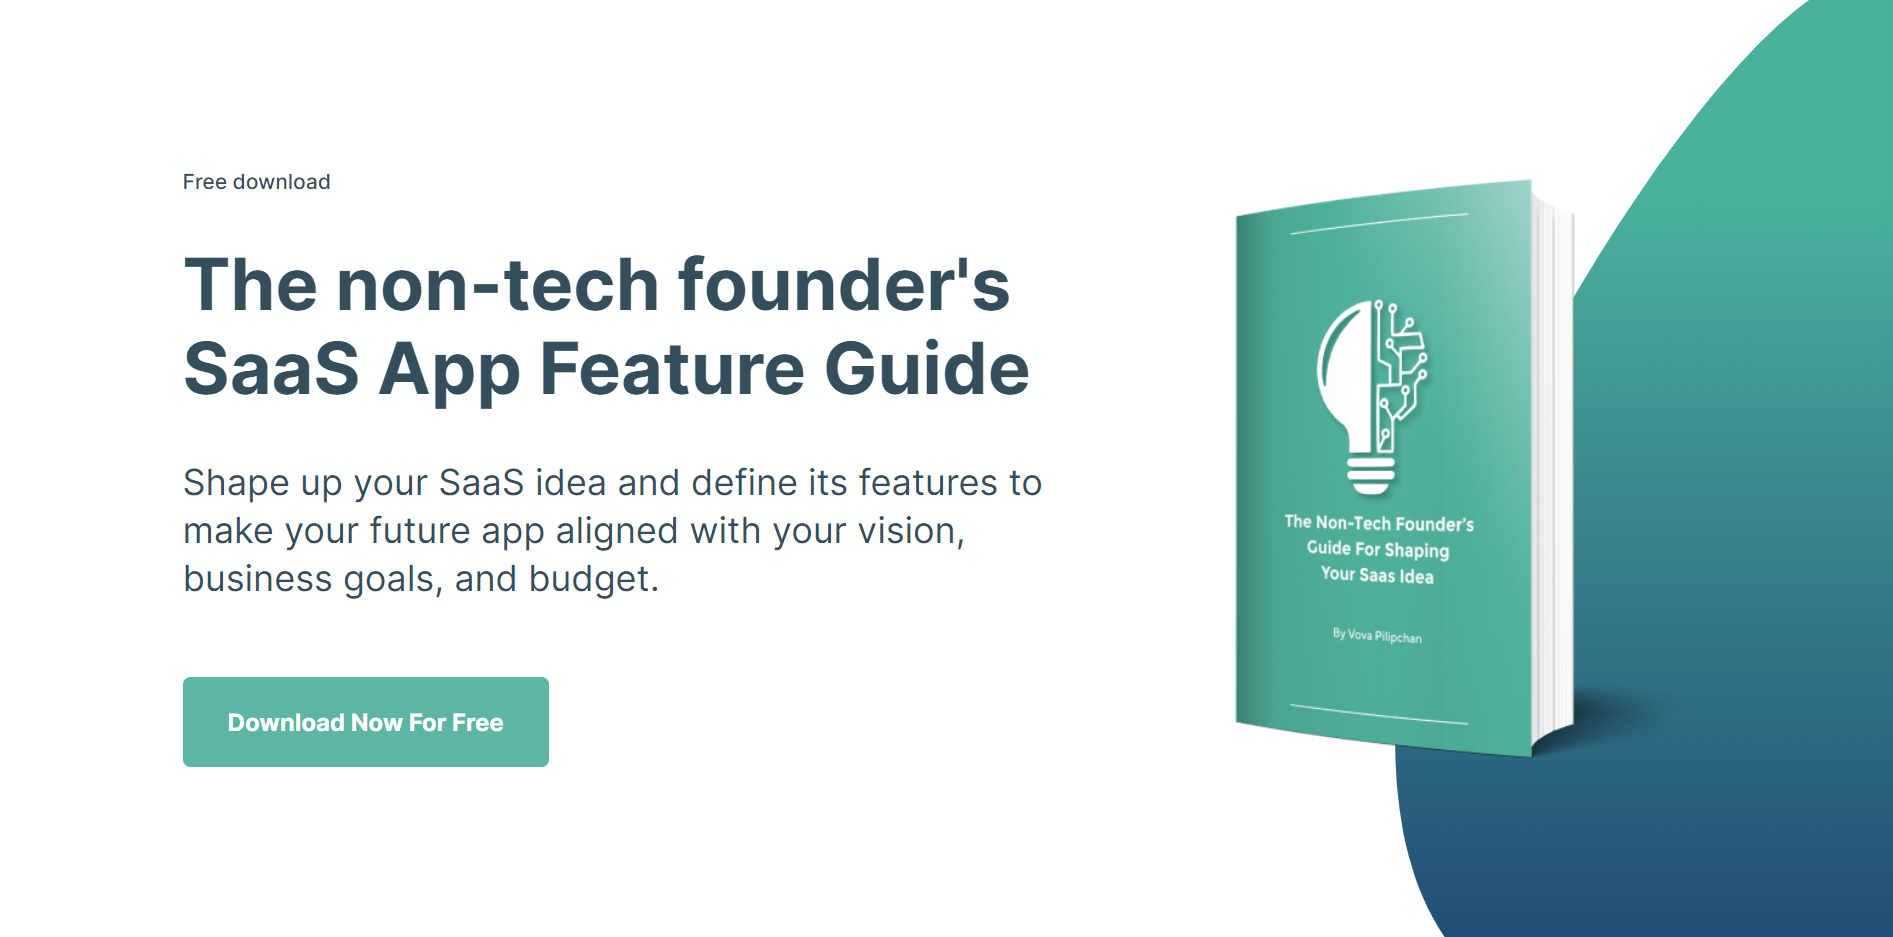
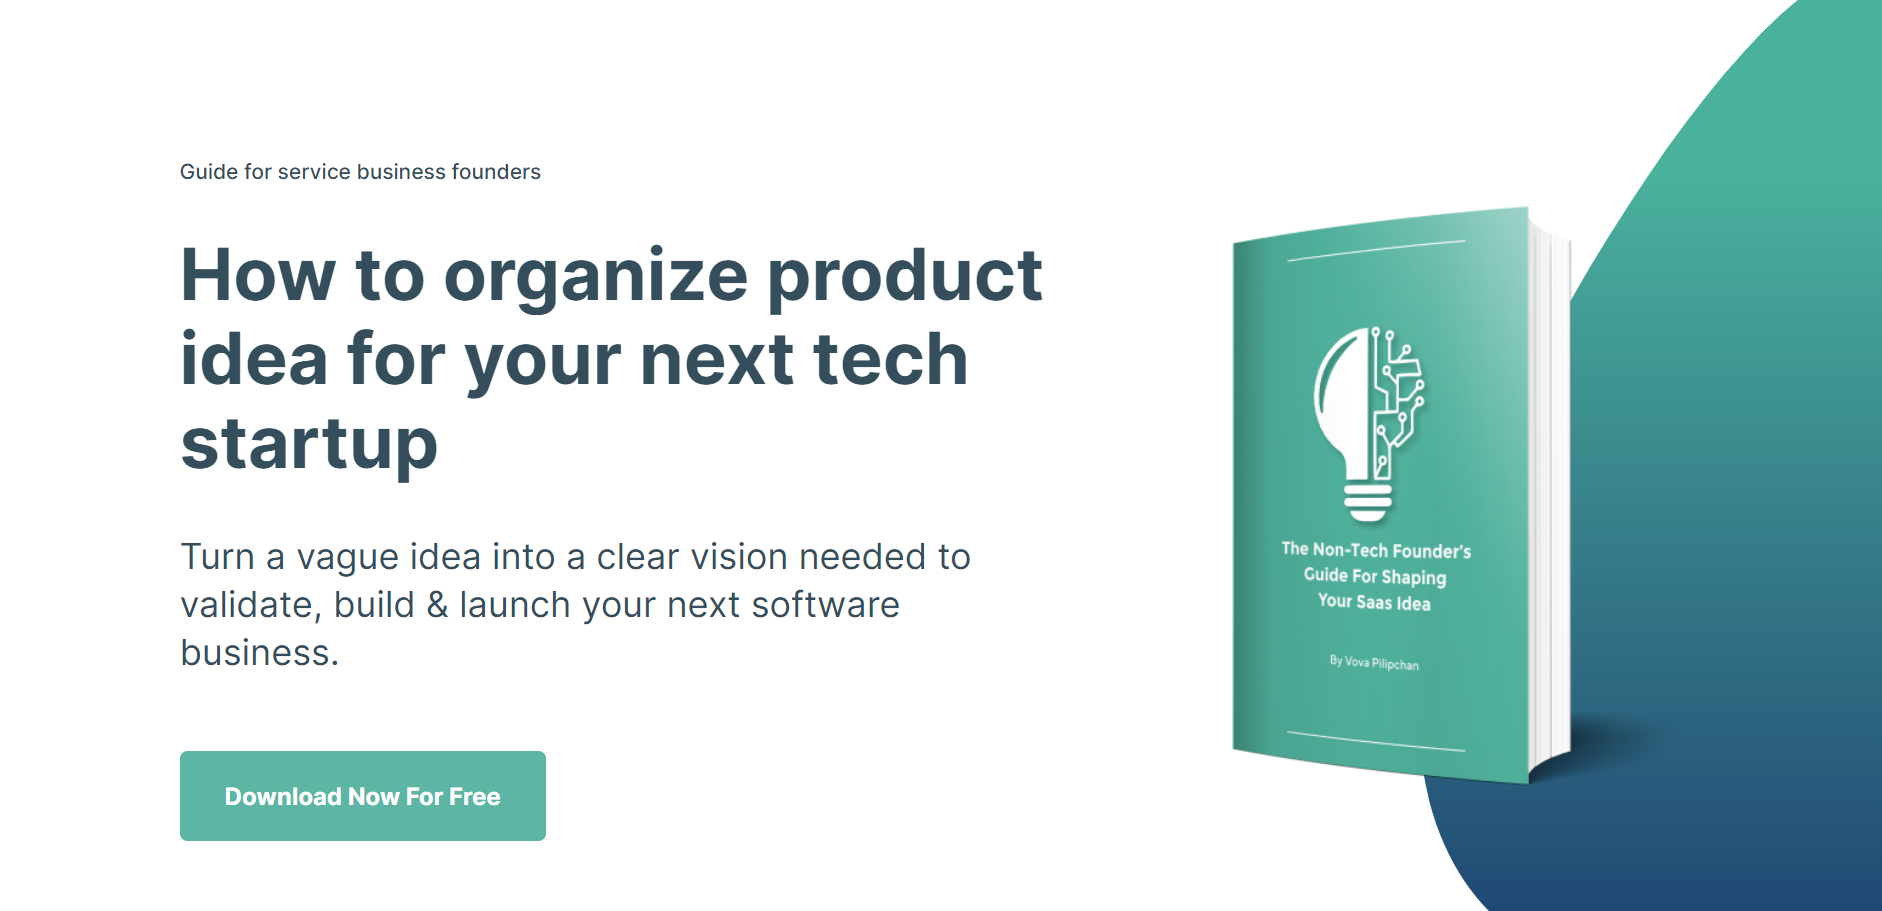
updated copy for landing page

diff --git a/src/templates/FeatureGuideTemplate/ResultsScreen/ResultsScreen.jsx b/src/templates/FeatureGuideTemplate/ResultsScreen/ResultsScreen.jsx
@@ -33,15 +33,7 @@ const ResultsScreen = () => {
                         <ul className={styles.screen__results}>
                             <li>
                                 <img src={CheckmarkImg} alt="Checkmark" />
-                                <span>Create a well-defined specification to convey your idea to devs and designers</span>
-                            </li>
-                            <li>
-                                <img src={CheckmarkImg} alt="Checkmark" />
                                 <span>Organize your SaaS idea and vision</span>
-                            </li>
-                            <li>
-                                <img src={CheckmarkImg} alt="Checkmark" />
-                                <span>Define app features and architecture</span>
                             </li>
                             <li>
                                 <img src={CheckmarkImg} alt="Checkmark" />
@@ -49,7 +41,15 @@ const ResultsScreen = () => {
                             </li>
                             <li>
                                 <img src={CheckmarkImg} alt="Checkmark" />
+                                <span>Define app features and architecture</span>
+                            </li>
+                            <li>
+                                <img src={CheckmarkImg} alt="Checkmark" />
                                 <span>Understand how your future app gonna work</span>
+                            </li>
+                            <li>
+                                <img src={CheckmarkImg} alt="Checkmark" />
+                                <span>Create a well-defined specification to convey your idea to devs and designers</span>
                             </li>
                         </ul>
                     </div>

diff --git a/src/templates/FeatureGuideTemplate/ReasonScreen/ReasonScreen.jsx b/src/templates/FeatureGuideTemplate/ReasonScreen/ReasonScreen.jsx
@@ -13,6 +13,18 @@ const ReasonScreen = () => {
                     </div>
                     <div className={styles.screen__right}>
                         <p>
+                            You are the one who bests understands the problem and solution, but <b>your ability to communicate your vision determines your product's success.</b>
+                        </p>
+
+                        <p>
+                            👉 Organizing your vision into well-defined architecture, features and target audience will help you validate, build & launch your product.
+                        </p>
+
+                        <p>
+                            <b>This guide helps you organize your SaaS idea to convey it to future customers, builders and get a more in-depth understanding yourself.</b>
+                        </p>
+
+                        {/* <p>
                             Developers and designers can build anything. The question is, does it do what you need.
                         </p>
                         <p>
@@ -25,7 +37,7 @@ const ReasonScreen = () => {
                             <b>
                                 This guide there to help you organize your SaaS idea to convey it accurately to developers and designers.
                             </b>
-                        </p>
+                        </p> */}
                     </div>
                 </div>
             </div>

diff --git a/src/templates/FeatureGuideTemplate/MainScreen/MainScreen.jsx b/src/templates/FeatureGuideTemplate/MainScreen/MainScreen.jsx
@@ -12,15 +12,15 @@ const MainScreen = ({ onDownloadClick }) => {
             <div className={'container'}>
                 <div className={styles.screen__content}>
                     <div className={styles.screen__left}>
-                        <h3>Free download</h3>
-                        <h1>The non-tech founder's SaaS App Feature Guide</h1>
+                        <h3>Guide for service business founders</h3>
+                        <h1>How to organize product idea for your next tech startup</h1>
                         <h2>
-                            Shape up your SaaS idea and define its features to make your future app aligned with your vision, business goals, and budget.
+                            Turn a vague idea into a clear vision needed to validate, build & launch your next software business.
                         </h2>
                         <Button onClick={onDownloadClick} className={styles.screen__cta} theme="blue">Download Now For Free</Button>
                     </div>
                     <div className={styles.screen__right}>
-                        <img src={MockupImg} alt="The non-tech founder's SaaS App Feature Guide" />
+                        <img src={MockupImg} alt="How to organize product idea for your next tech startup" />
                     </div>
                 </div>
             </div>

diff --git a/src/pages/saas-app-feature-guide.jsx b/src/pages/saas-app-feature-guide.jsx
@@ -8,7 +8,7 @@ const SaasGuidePage = () => {
     return (
         <>
             <SEO
-                title="The non-tech founder's SaaS App Feature Guide by Vova Pilipchatin"
+                title="Guide how to organize product idea for your next tech startup"
                 customTitle
                 meta={[
                     {
@@ -28,7 +28,7 @@ const SaasGuidePage = () => {
                         content: `https://vpilip.com/img/preview.png`,
                     },
                 ]}
-                description="Shape up your SaaS idea and define its features to make your future app aligned with your vision, business goals, and budget."
+                description="Turn a vague idea into a clear vision needed to validate, build & launch your next software business."
             />
             <FeatureGuideTemplate />
         </>

diff --git a/src/templates/FeatureGuideTemplate/CTAScreen/CTAScreen.jsx b/src/templates/FeatureGuideTemplate/CTAScreen/CTAScreen.jsx
@@ -11,7 +11,7 @@ const CTAScreen = ({ onDownloadClick }) => {
             <div className={'container'}>
                 <div className={styles.screen__content}>
                     <div className={styles.screen__left}>
-                        <h2>Get started with your free SaaS App Feature Guide</h2>
+                        <h2>Get started with your free Product idea Shaping Guide</h2>
                     </div>
                     <div className={styles.screen__right}>
                         <Button onClick={onDownloadClick} className={styles.screen__btn} theme="blue">Download Now For Free</Button>
